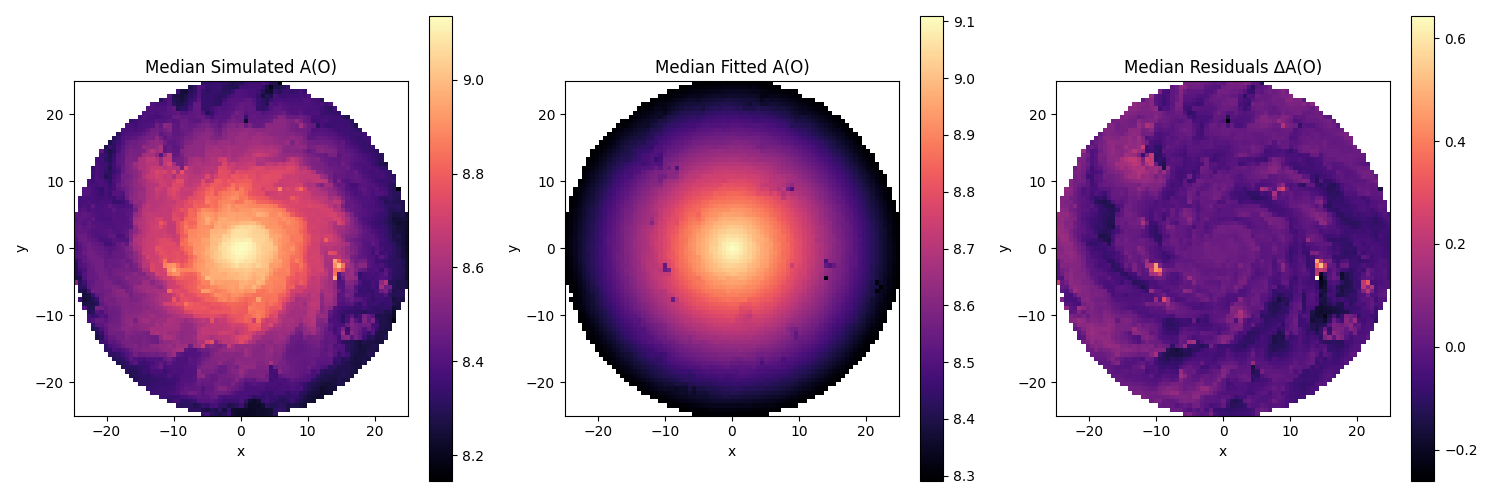
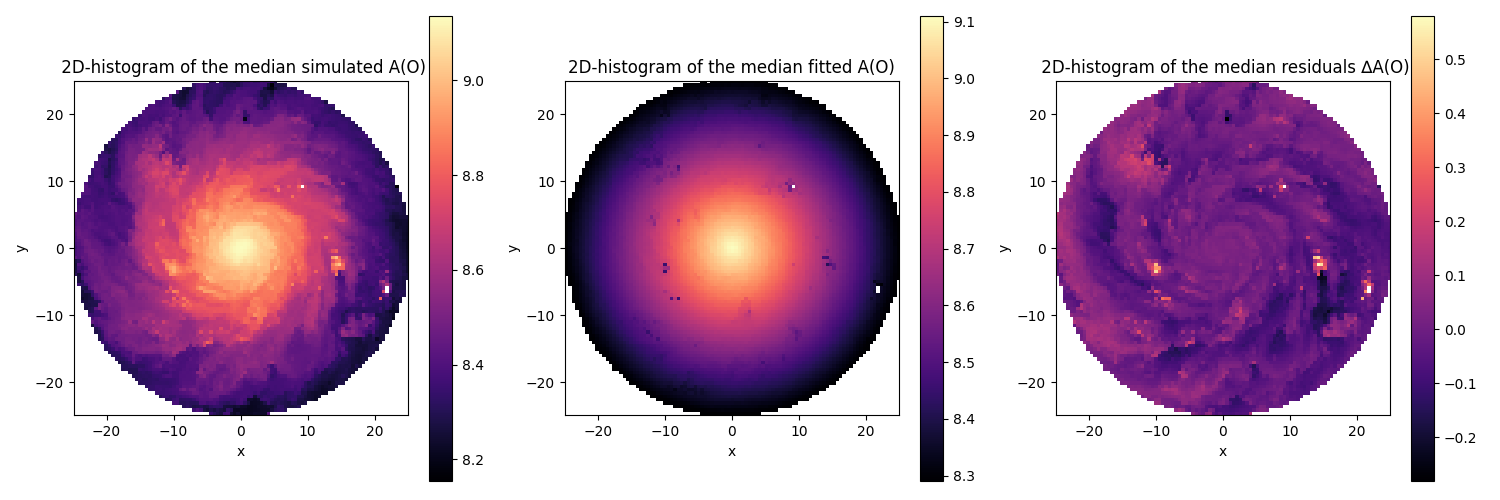
finalised metallicity plots

diff --git a/scripts/q3.py b/scripts/q3.py
@@ -3,15 +3,17 @@ import matplotlib.pyplot as plt
 from astropy.io import fits
 from scipy.optimize import curve_fit
 from scipy.stats import binned_statistic_2d
+from matplotlib.colors import LogNorm
+import matplotlib.lines as mlines
 
 # File path for fits file
 fits_file_path = '/home/el1as/github/astro3/astro_comp_assignment3/data/nihao_uhd_simulation_g8.26e11_xyz_positions_and_oxygen_ao.fits'
 
-# open the fits file path to discover that useful data is in Second HDU
+# Open the fits file to discover that useful data is in Second HDU
 hdul = fits.open(fits_file_path)
 data = hdul[1].data
 
-# note that data is in (x, y, z, A(O)), so we can access the columns by their names
+# Access columns (x, y, z, A(O))
 x = data['x']
 y = data['y']
 z = data['z']
@@ -20,65 +22,143 @@ A_o = data['A_O']
 # Define galactocentric radii
 R_gal = np.sqrt(x**2 + y**2 + z**2)
 
+# Rescaled R_Gal to its standard deviation (Hyperparameter 1)
+mean_rgal = np.mean(R_gal)
+std_rgal = np.std(R_gal)
+R_gal_scaled = (R_gal - mean_rgal) / std_rgal
 
+# Initial guess (Hyperparameter 2)
+initial_slope_guess = -0.1
+initial_intercept_guess = 9
 
-
-
-
-# Define a linear function for curve_fit
+# Define a linear function for curve_fit 
 def linear_func(x, m, c):
     return m * x + c
 
-# Perform the fit using curve_fit
-popt, pcov = curve_fit(linear_func, R_gal, A_o)
-slope, intercept = popt
+# Perform the fit using curve_fit with an initial guess on the scaled R_gal
+popt, pcov = curve_fit(linear_func, R_gal_scaled, A_o, p0=[initial_slope_guess, initial_intercept_guess])
+scaled_slope, scaled_intercept = popt
 slope_uncertainty, intercept_uncertainty = np.sqrt(np.diag(pcov))
 
-# Calculate fitted values and residuals
+# Transform slope and intercept back to original scale
+slope = scaled_slope / std_rgal
+intercept = scaled_intercept - (scaled_slope * mean_rgal / std_rgal)
+
+# Calculate fitted values and residuals using the unscaled slope and intercept
 A_o_fit = linear_func(R_gal, slope, intercept)
 residuals = A_o - A_o_fit
 
 # Print fit results with uncertainties
-print(f"Slope: {slope:.4f} ± {slope_uncertainty:.4f}")
-print(f"Intercept: {intercept:.4f} ± {intercept_uncertainty:.4f}")
+print(f"Slope: {slope:.6f} ± {slope_uncertainty:.6f}")
+print(f"Intercept: {intercept:.6f} ± {intercept_uncertainty:.6f}")
 
+# Calculate goodness-of-fit metrics
+ss_res = np.sum((A_o - A_o_fit) ** 2)
+ss_tot = np.sum((A_o - np.mean(A_o)) ** 2)
+r_squared = 1 - (ss_res / ss_tot)
+rms = np.sqrt(np.mean(residuals**2))
 
+print(f"R-squared: {r_squared:.6f}")
+print(f"RMS: {rms:.6f}")
 
+# Define the number of bins 
+num_bins = 5  
+bins = np.linspace(min(R_gal), max(R_gal), num_bins + 1)
 
+# Arrays to store RMS and bin centers
+rms_per_bin = []
+bin_centers = (bins[:-1] + bins[1:]) / 2
 
+# Loop over each bin
+for i in range(num_bins):
+    # Get the data points within the current bin
+    bin_mask = (R_gal >= bins[i]) & (R_gal < bins[i + 1])
+    R_gal_bin = R_gal[bin_mask]
+    A_o_bin = A_o[bin_mask]
+    A_o_fit_bin = A_o_fit[bin_mask]
+    
+    # Calculate RMS for the current bin
+    residuals_bin = A_o_bin - A_o_fit_bin
+    rms_bin = np.sqrt(np.mean(residuals_bin ** 2))
+    rms_per_bin.append(rms_bin)
 
+# Print RMS and R^2 values for each bin
+for i in range(num_bins):
+    print(f"R_range: {bins[i]} to {bins[i + 1]}")
+    print(f"  RMS = {rms_per_bin[i]:.6f}")
+    
+
+# Plot
 fig, axes = plt.subplots(1, 2, figsize=(10, 5))
 
 # Panel 1: Logarithmic density plot of R_gal vs A_o with linear fit
-axes[0].hexbin(R_gal, A_o, gridsize=50, cmap='magma', bins='log')
-axes[0].plot(R_gal, A_o_fit, color='blue', label=f'Fit: slope={slope:.2f}', linewidth=2)  # Overplot linear fit
-axes[0].set_xlabel('R$Gal$ ')
+im0 = axes[0].hexbin(R_gal, A_o, gridsize=80, cmap='magma', bins='log')
+fit_line, = axes[0].plot(R_gal, A_o_fit, color='BLACK', label='Linear Fit', linewidth=1)  # Assign fit line to a variable
+
+# Manually create a legend entry for the hexbin plot
+hexbin_legend = mlines.Line2D([], [], color='orange', marker='h', markersize=10, linestyle='None', label='Data')
+
+# Add colorbar
+fig.colorbar(im0, ax=axes[0])
+
+# Set axis labels and title
+axes[0].set_xlabel('R$Gal$ [kpc]')
 axes[0].set_ylabel('A(O)')
-axes[0].set_title('Logarithmic density plot with linear fit')
-axes[0].legend()
+axes[0].set_title('Logarithmic density plot of R$Gal$ vs. A(O)')
+
+# Combine both the custom hexbin legend and the linear fit legend
+axes[0].legend(handles=[hexbin_legend, fit_line])
+
 
 # Panel 2: Scatter plot of residuals
 axes[1].scatter(R_gal, residuals, s=.1, color='red')
-axes[1].set_xlabel('R$Gal$ ')
-axes[1].set_ylabel(r'$\Delta A(O)$ (Residuals)')
+axes[1].set_xlabel('R$Gal$ [kpc]')
+axes[1].set_ylabel(r'$\Delta A(O)$')
 axes[1].axhline(0, color='black', linestyle='--')  # Add a horizontal line at zero
-axes[1].set_title('Residuals of the fit')
-
-# # Panel 2: Logarithmic density plot of residuals
-# axes[1].hexbin(R_gal, residuals, gridsize=50, cmap='magma', bins='log')
-# axes[1].set_xlabel('R$Gal$ ')
-# axes[1].set_ylabel(r'$\Delta A(O)$ (Residuals)')
-# axes[1].axhline(0, color='black', linestyle='--')  # Add a horizontal line at zero
-# axes[1].set_title('Residuals of the fit')
+axes[1].set_title('Residuals of the linear fit function')
 
 plt.tight_layout()
 fig.savefig('/home/el1as/github/astro3/astro_comp_assignment3/figures/rg_vs_ao_fit_and_residuals.png')
 plt.close()
 
 
-# Define the bin edges for the x and y axes
-bins_x = np.linspace(min(x), max(x), 80)  
-bins_y = np.linspace(min(y), max(y), 80)  
+
+
+
+
+
+
+
+
+
+
+
+
+
+
+
+
+
+
+
+
+
+
+
+
+
+
+
+
+
+
+
+
+
+
+# Define the bins for the x and y axes
+bins_x = np.linspace(min(x), max(x), 100)  
+bins_y = np.linspace(min(y), max(y), 100)  
 
 # Calculate the 2D histograms for the median simulated A(O), fitted A(O), and residuals
 stat_simulated, _, _, _ = binned_statistic_2d(x, y, A_o, statistic='median', bins=[bins_x, bins_y])
@@ -92,21 +172,21 @@ fig, axes = plt.subplots(1, 3, figsize=(15, 5))
 im1 = axes[0].imshow(stat_simulated.T, origin='lower', cmap='magma', extent=[min(x), max(x), min(y), max(y)])
 axes[0].set_xlabel('x')
 axes[0].set_ylabel('y')
-axes[0].set_title('Median Simulated A(O)')
+axes[0].set_title(' 2D-histogram of the median simulated A(O)')
 fig.colorbar(im1, ax=axes[0])
 
 # Panel (b): Fitted A(O)
 im2 = axes[1].imshow(stat_fitted.T, origin='lower', cmap='magma', extent=[min(x), max(x), min(y), max(y)])
 axes[1].set_xlabel('x')
 axes[1].set_ylabel('y')
-axes[1].set_title('Median Fitted A(O)')
+axes[1].set_title('2D-histogram of the median fitted A(O)')
 fig.colorbar(im2, ax=axes[1])
 
 # Panel (c): Residuals ∆A(O)
 im3 = axes[2].imshow(stat_residuals.T, origin='lower', cmap='magma', extent=[min(x), max(x), min(y), max(y)])
 axes[2].set_xlabel('x')
 axes[2].set_ylabel('y')
-axes[2].set_title('Median Residuals ∆A(O)')
+axes[2].set_title(' 2D-histogram of the median residuals ∆A(O)')
 fig.colorbar(im3, ax=axes[2])
 
 # Adjust layout and save the figure
